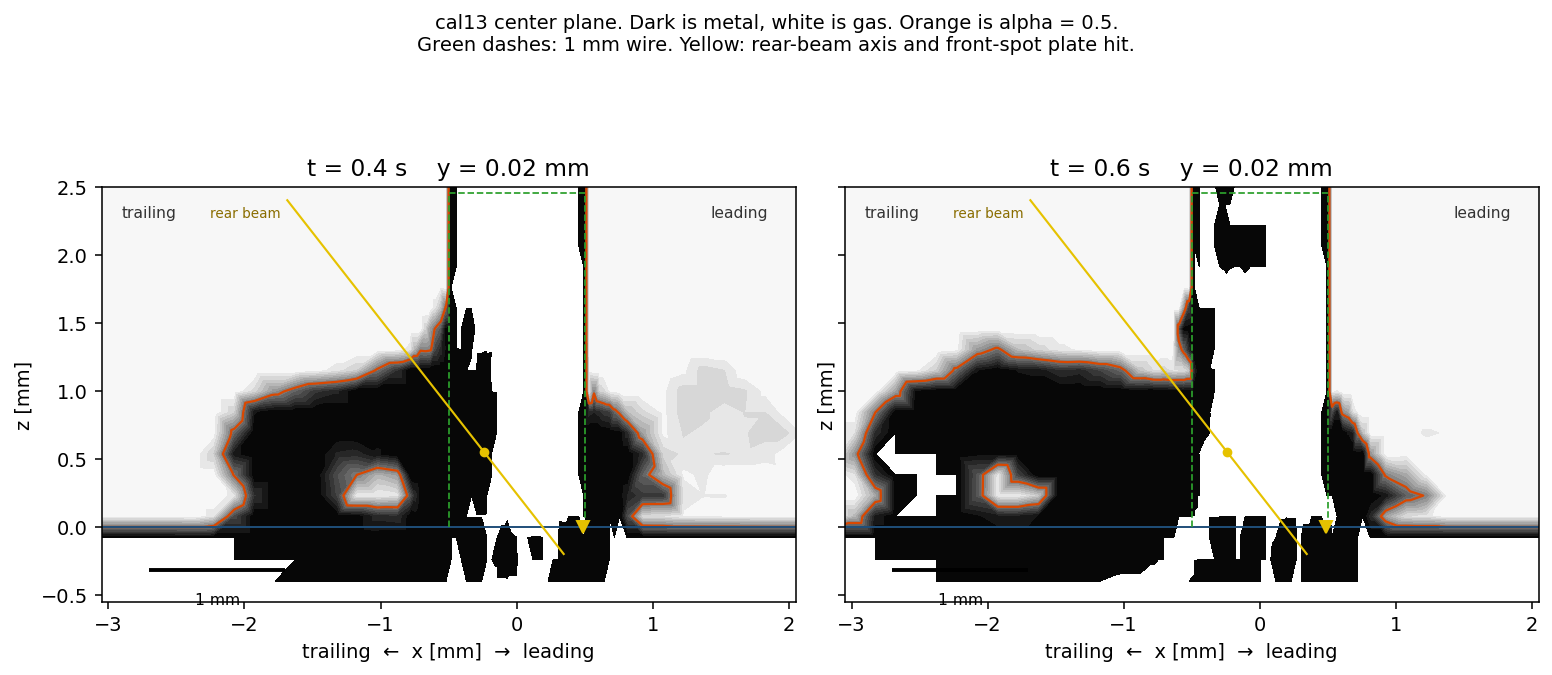
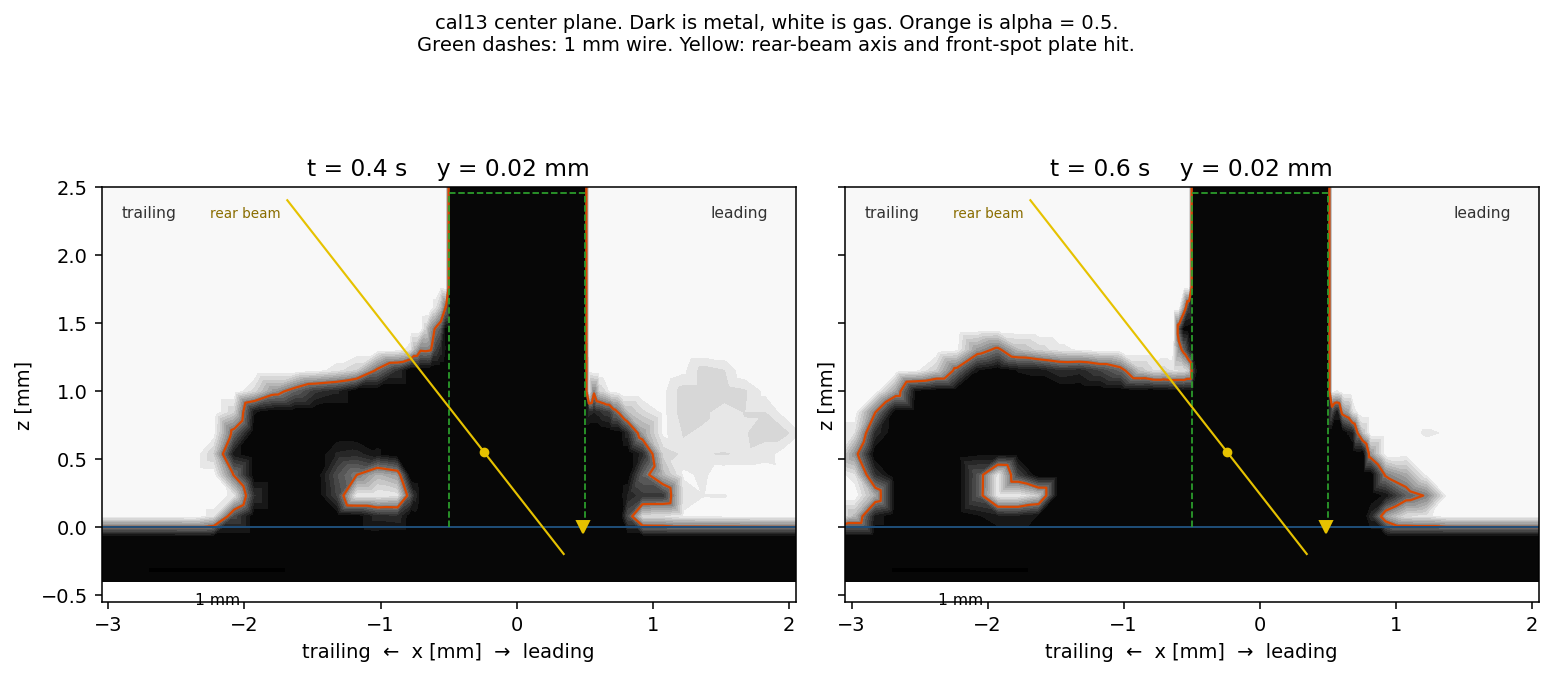
Paint solid wire as metal on the center-plane side view.
Contour levels stopped at alpha = 1, so the solid wire and plate were left unfilled and looked like gas. The cal13 figure is redrawn.

diff --git a/results/calibration/plot_cal11_sideview.py b/results/calibration/plot_cal11_sideview.py
@@ -58,7 +58,13 @@ def draw(ax, x, z, alpha, title):
     tri = Triangulation(x, z)
     xt, zt = x[tri.triangles], z[tri.triangles]
     tri.set_mask((np.ptp(xt, axis=1) > 0.35) | (np.ptp(zt, axis=1) > 0.35))
-    ax.tricontourf(tri, alpha, levels=np.linspace(0, 1, 17), cmap="gray_r", vmin=0, vmax=1)
+    # tricontourf only fills strictly between levels, so a cell at exactly 0 or 1
+    # is left unfilled and the white axes background shows through. The solid
+    # wire and the plate are alpha = 1, and that hole was painting them as gas.
+    levels = np.linspace(0.0, 1.0, 17)
+    levels[0] = -1e-3
+    levels[-1] = 1.0 + 1e-3
+    ax.tricontourf(tri, alpha, levels=levels, cmap="gray_r", vmin=0, vmax=1)
     ax.tricontour(tri, alpha, levels=[0.5], colors=["#d94801"], linewidths=1.15)
     # Plate and the wire outline on this plane.
     ax.axhline(0.0, color="#1f4e79", lw=1.0)

diff --git a/results/calibration/README.md b/results/calibration/README.md
@@ -163,7 +163,7 @@ The tall white region under the bead on `cal11_sideview.png` is a non-wetted fil
 
 `launch_cal13.sh` keeps the cal10 beams, speeds, and 60°/140° trailing wire window. The plate window is 10°/40°. Refined mesh, 57014 cells, 12 ranks, `nice -n 10`. Wall clock 5.8 h for 0.60 s.
 
-The plate line is wetting: 22 pinned, 17 advancing, 1 receding, mean angle 53°. At 0.40 s a one-cell gas layer still sits under the downstream bead. By 0.60 s that layer is metal, and the center plane is metal from the plate up through the bead. The trailing crest is 1.45 mm and the leading crest is 0.84 mm. The junction still holds an open gas notch beside the wire, from about 1.15 mm to 1.9 mm, not a closed bubble. The open-cavity report is 2.66 mm³ centred at (0.48, 1.09, 1.08) mm. Pinch-offs 48, closures 0. One locked lack-of-fusion patch, 0.31 mm, sits on the plate at z = 0.11 mm.
+The plate line is wetting: 22 pinned, 17 advancing, 1 receding, mean angle 53°. The center plane inside the wire is metal (alpha ≥ 0.96) from the plate up to the top of the domain. A first rendering painted that column white because contouring leaves a value of exactly 1 unfilled; `cal13_sideview.png` was redrawn so that metal stays dark. Under the trailing bead a gas film one cell thick (z ≈ 0.23 mm) sits near world x = 1.0 mm at 0.40 s and near world x = 1.8 mm at 0.60 s. The metal under it is solid, 1100–1360 K, liquid fraction 0, continuous with the plate. It is not a bubble inside liquid. The trailing crest is 1.45 mm and the leading crest is 0.84 mm. The junction still holds an open gas notch beside the wire, from about 1.15 mm to 1.9 mm, not a closed bubble. The open-cavity report is 2.66 mm³ centred at (0.48, 1.09, 1.08) mm. Pinch-offs 48, closures 0. One locked lack-of-fusion patch, 0.31 mm, sits on the plate at z = 0.11 mm.
 
 The plate itself never melts. The top plate cell stays near 1274 K from 0.3 s to 0.6 s, under the 1658 K solidus, and the pool depth is 0. The liquid starts about 0.4 mm above the plate. Conduction into the 300 K plate is real and smooth; there is not enough of it. Side view: `cal13_sideview.png`.
 
